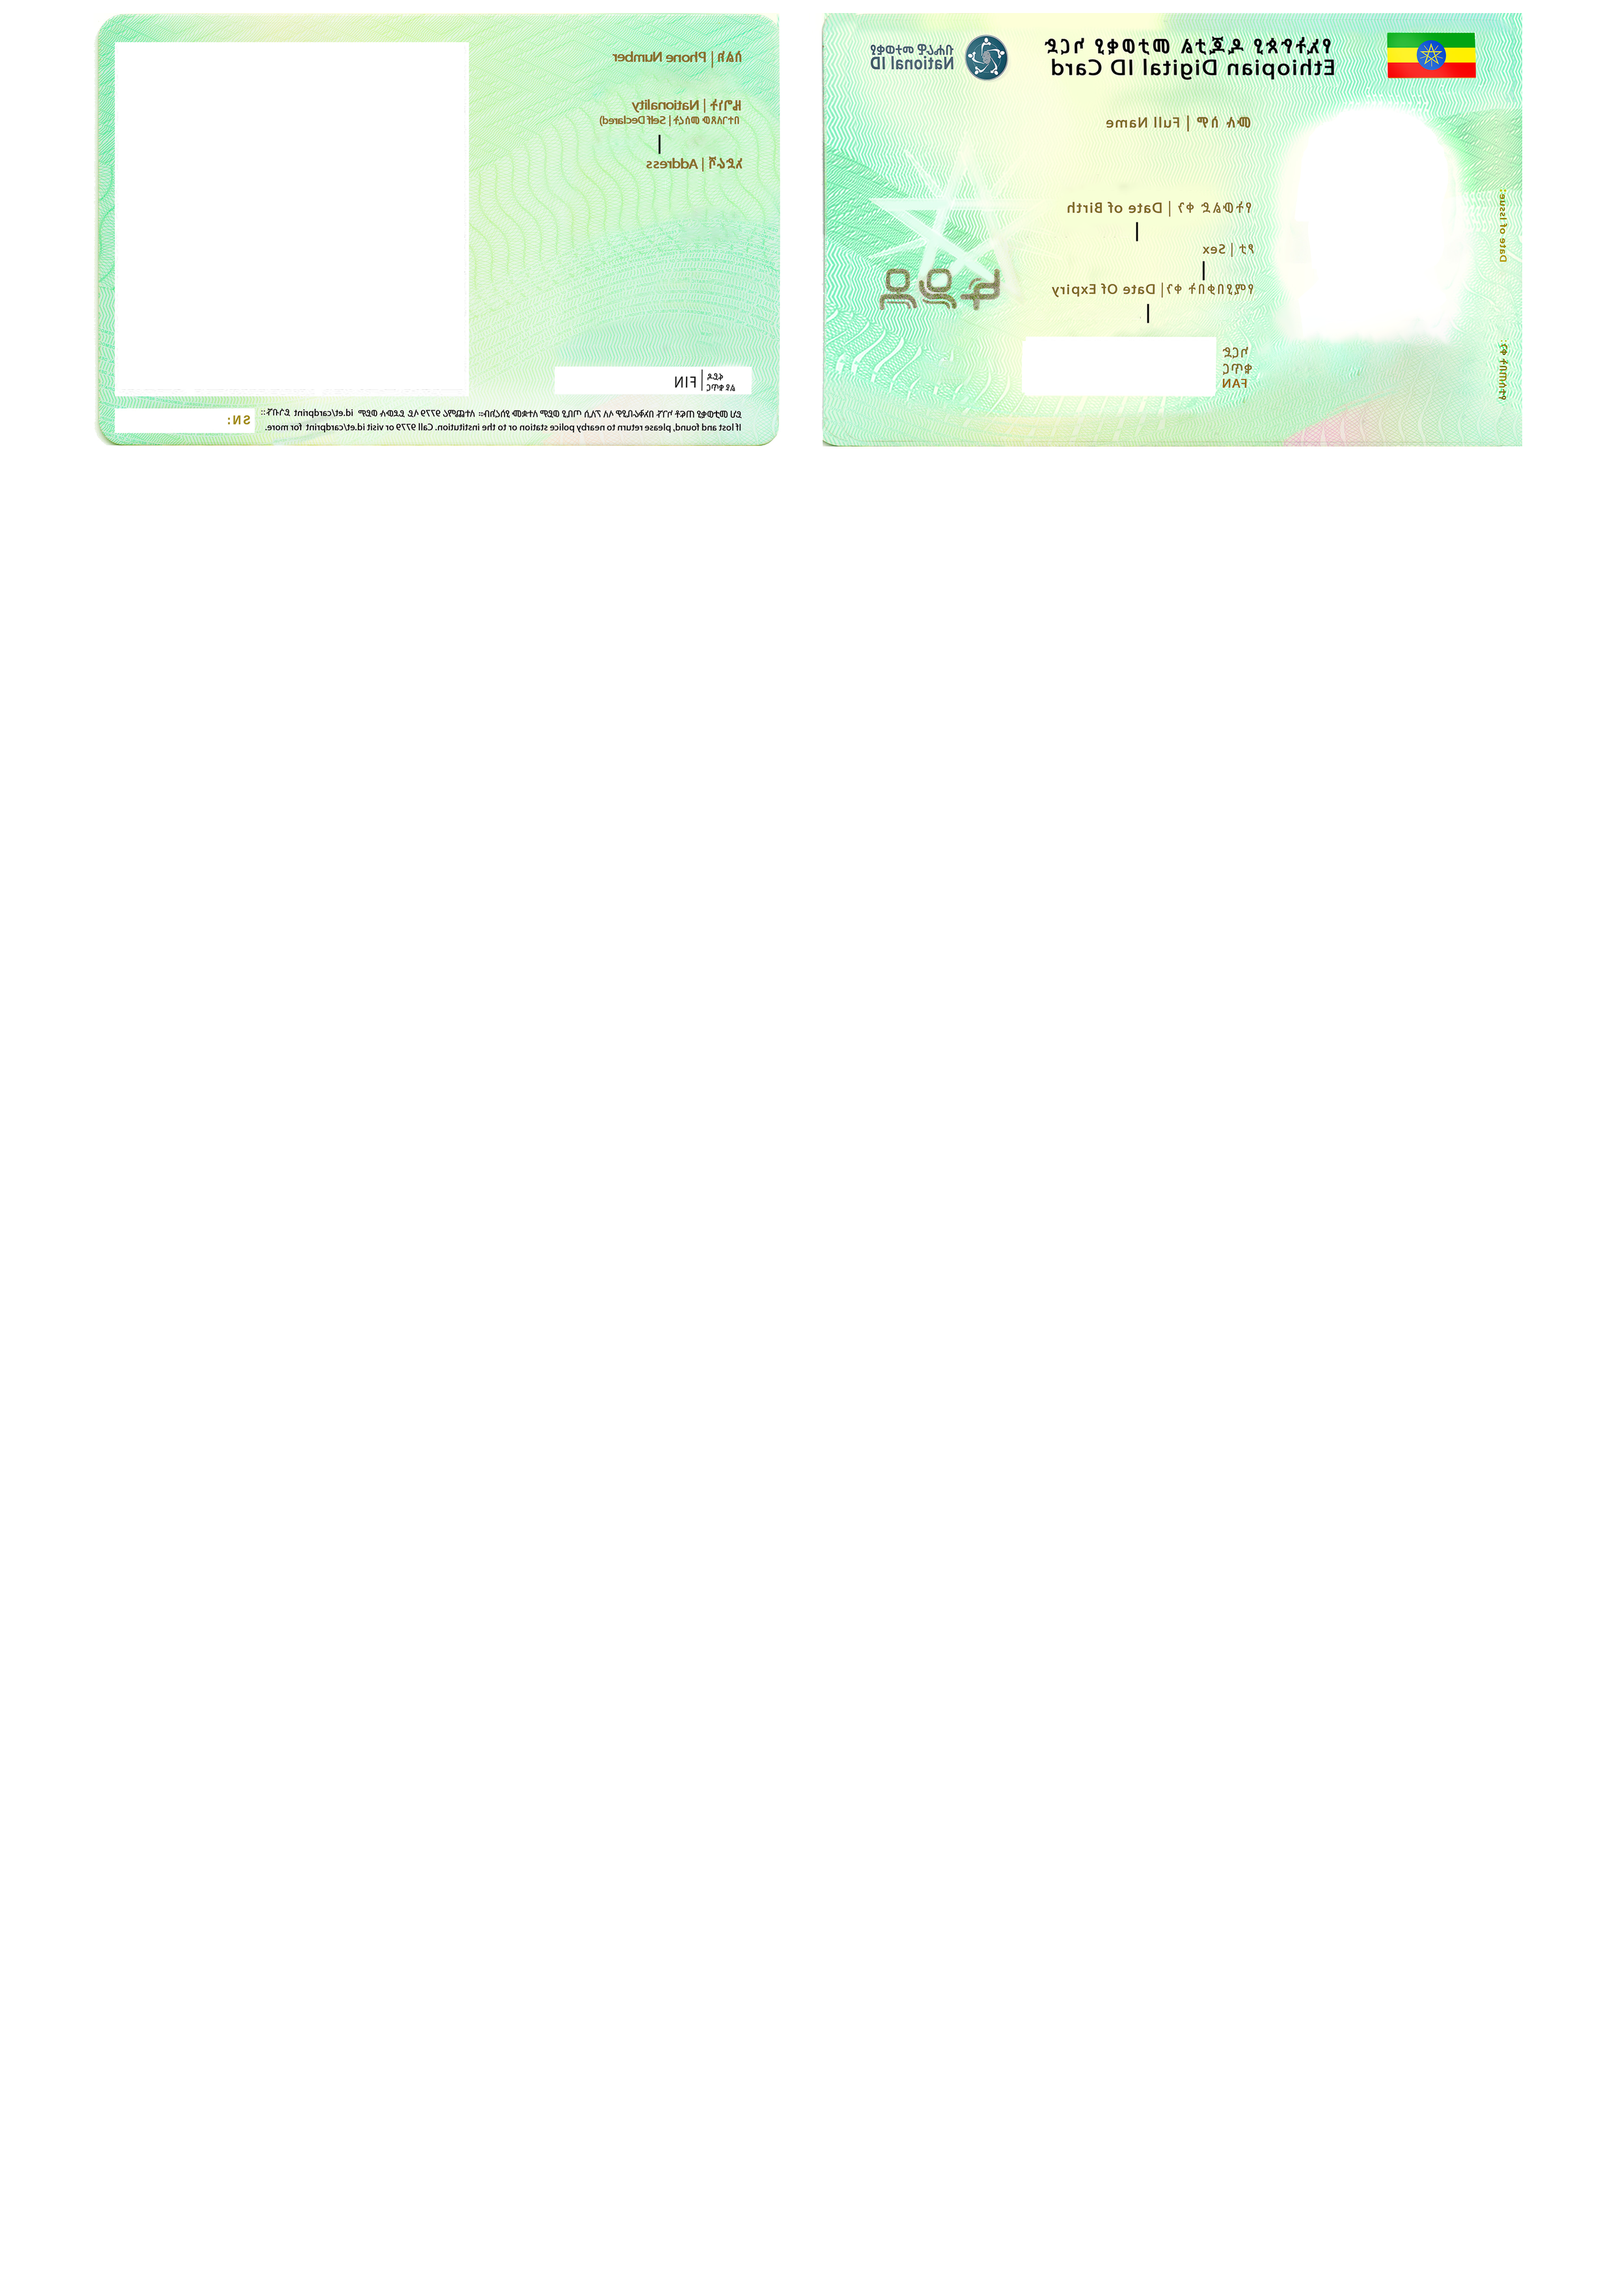
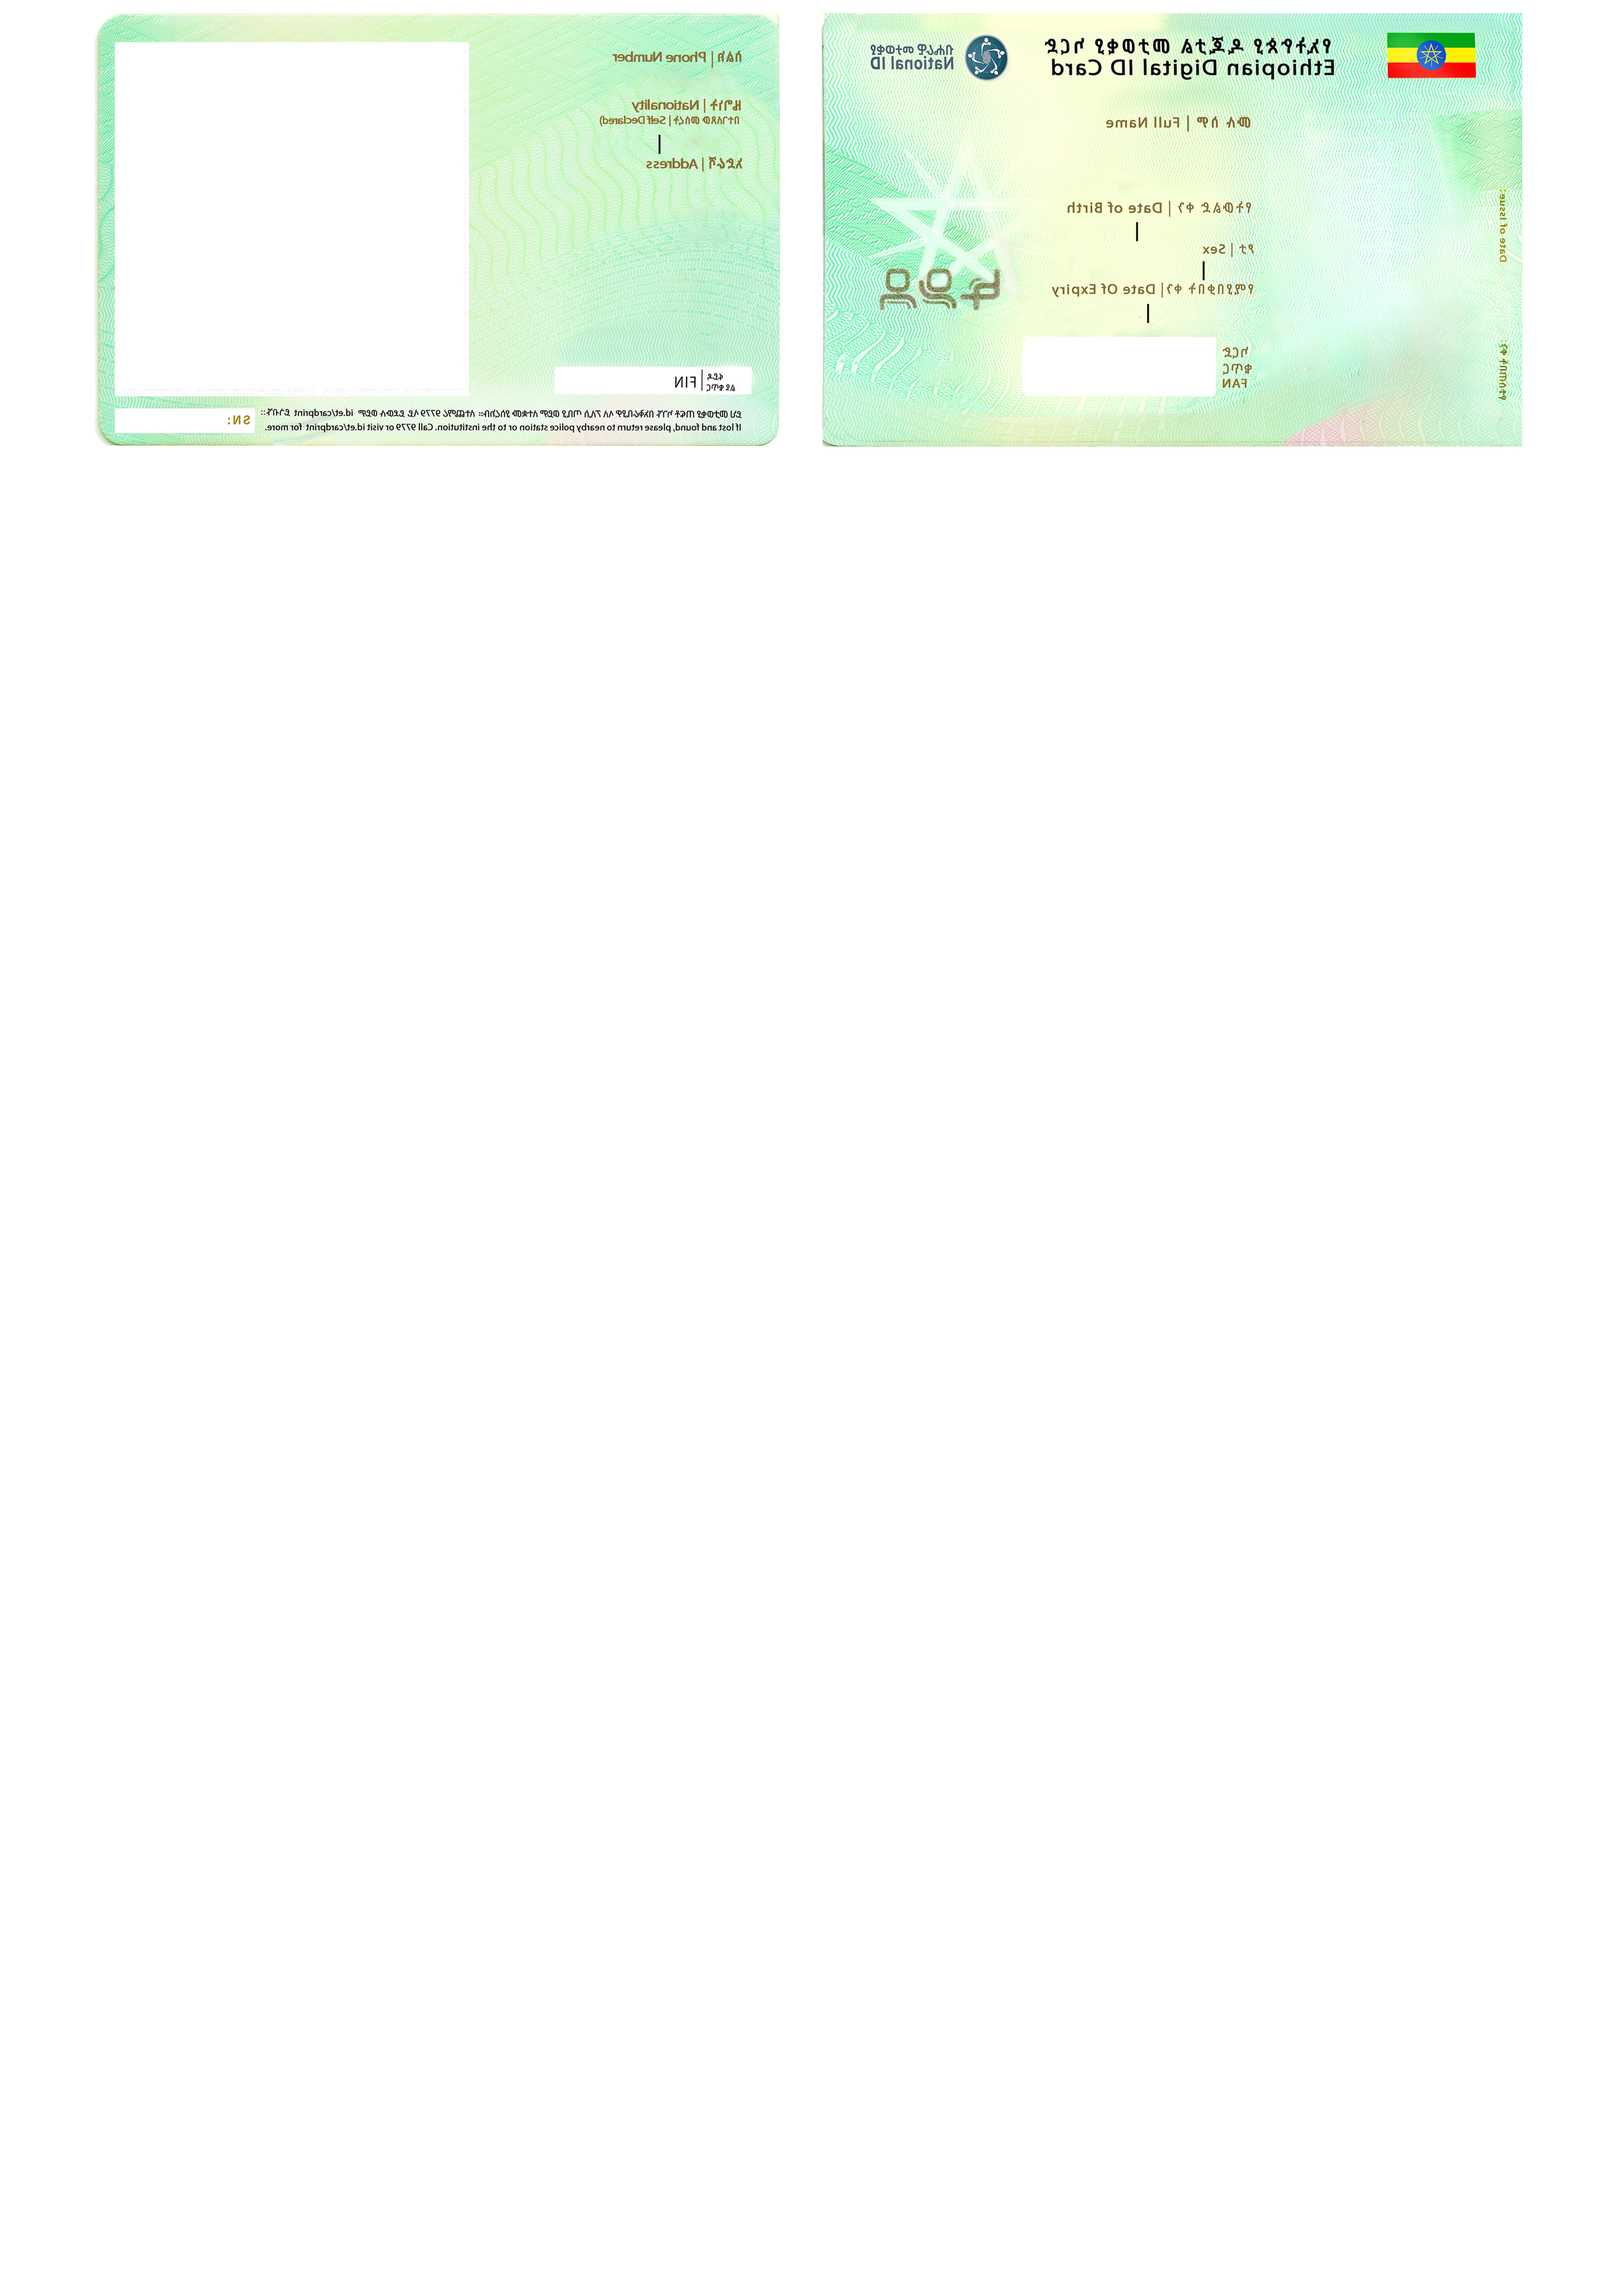
Add clipboard paste support on index and preview pages

Changed region(s): [[0.7762, 0.0311, 0.9315, 0.1554]]

diff --git a/app/templates/preview.html b/app/templates/preview.html
@@ -1153,11 +1153,16 @@
           {% endif %}
 
           {% if data.fcn_barcode %}
-          <div class="image-card">
+          <div class="image-card" id="barcodeCard">
+          {% else %}
+          <div class="image-card" id="barcodeCard" style="display:none;">
+          {% endif %}
             <h3>Barcode</h3>
             <div class="photo-preview-container" id="barcodeDropZone">
-              <img id="userBarcode" src="{{ url_for('static', filename=data.fcn_barcode) }}?t={{ timestamp }}"
-                class="uniform-img" alt="FCN Barcode">
+              <img id="userBarcode"
+                src="{% if data.fcn_barcode %}{{ url_for('static', filename=data.fcn_barcode) }}?t={{ timestamp }}{% else %}{% endif %}"
+                class="uniform-img" alt="FCN Barcode"
+                {% if not data.fcn_barcode %}style="display:none;"{% endif %}>
               <div id="barcodeLoading" class="photo-loading" style="display: none;">
                 <i class="fas fa-spinner fa-spin"></i>
               </div>
@@ -1178,7 +1183,6 @@
               <input type="file" id="barcodeUpload" accept="image/*">
             </div>
           </div>
-          {% endif %}
         </div>
 
         <div class="id-details">
@@ -2357,18 +2361,31 @@
         if (response.ok) {
           const result = await response.json();
           if (result.success) {
-            showToast('FAN number updated successfully', 'success');
-            
-            // If FAN is valid (16 digits), trigger barcode regeneration
-            if (cleanValue.length === 16) {
-              showToast('Regenerating barcode...', 'info');
-              // Reload the page to regenerate barcode
-              setTimeout(() => {
-                window.location.reload();
-              }, 1000);
+            // If barcode was regenerated, swap the image in-place — no page reload
+            if (cleanValue.length === 16 && result.barcode_filename) {
+              const barcodeImg = document.getElementById('userBarcode');
+              const barcodeCard = document.getElementById('barcodeCard');
+
+              if (barcodeCard) {
+                barcodeCard.style.display = '';
+              }
+              if (barcodeImg) {
+                const newSrc = `/static/${result.barcode_filename}?t=${Date.now()}`;
+                barcodeImg.onload = () => showToast('Barcode updated', 'success');
+                barcodeImg.onerror = () => showToast('Barcode file not found', 'error');
+                barcodeImg.style.display = '';
+                barcodeImg.src = newSrc;
+              }
+
+              // Also update the fcn_formatted input if present
+              if (result.fcn_formatted) {
+                const fcnInput = document.querySelector('input[name="fcn_formatted"]');
+                if (fcnInput) fcnInput.value = result.fcn_formatted;
+              }
+            } else {
+              showToast('FAN number updated', 'success');
             }
-            
-            // Update the session data to reflect changes
+
             if (window.sessionData) {
               window.sessionData.fan = cleanValue;
               window.sessionData.fcn_full = cleanValue;
@@ -2497,6 +2514,94 @@
         generationSummary.style.display = 'none';
       }
     }
+
+    // ── Clipboard paste support for Photo and QR ──────────────────────────
+    // Shows a brief highlight on the target zone when it's focused/hovered
+    function flashZone(zoneId) {
+      const zone = document.getElementById(zoneId);
+      if (!zone) return;
+      zone.style.outline = '3px solid var(--primary)';
+      zone.style.borderRadius = '8px';
+      setTimeout(() => { zone.style.outline = ''; }, 800);
+    }
+
+    document.addEventListener('paste', function (e) {
+      const items = (e.clipboardData || e.originalEvent.clipboardData).items;
+      let imageFile = null;
+
+      for (const item of items) {
+        if (item.type.startsWith('image/')) {
+          imageFile = item.getAsFile();
+          break;
+        }
+      }
+
+      if (!imageFile) return;
+
+      // Decide target: if QR drop zone is hovered/focused use QR, else photo
+      const qrZone = document.getElementById('qrDropZone');
+      const photoZone = document.getElementById('photoDropZone');
+
+      // Check which zone the mouse is currently over via a data attribute set on mouseover
+      const target = document.body.dataset.pasteTarget || 'photo';
+
+      if (target === 'qr' && qrZone) {
+        flashZone('qrDropZone');
+        handleQrUpload(imageFile);
+        showToast('QR pasted from clipboard', 'success');
+      } else if (photoZone) {
+        flashZone('photoDropZone');
+        handlePhotoUpload(imageFile);
+        showToast('Photo pasted from clipboard', 'success');
+      }
+    });
+
+    // Track which zone the cursor is over so paste knows where to go
+    ['photoDropZone', 'qrDropZone'].forEach(id => {
+      const el = document.getElementById(id);
+      if (!el) return;
+      el.addEventListener('mouseenter', () => {
+        document.body.dataset.pasteTarget = id === 'qrDropZone' ? 'qr' : 'photo';
+      });
+      el.addEventListener('mouseleave', () => {
+        delete document.body.dataset.pasteTarget;
+      });
+    });
+
+    // Also add a visible "Paste" button under each zone
+    (function addPasteButtons() {
+      const photoActions = document.querySelector('#photoDropZone')?.closest('.image-card')?.querySelector('.photo-actions');
+      const qrActions = document.querySelector('#qrDropZone')?.closest('.image-card')?.querySelector('.photo-actions');
+
+      function makePasteBtn(handler, label) {
+        const btn = document.createElement('button');
+        btn.type = 'button';
+        btn.className = 'photo-btn';
+        btn.innerHTML = `<i class="fas fa-clipboard"></i> ${label}`;
+        btn.title = 'Paste image from clipboard (Ctrl+V)';
+        btn.addEventListener('click', async () => {
+          try {
+            const items = await navigator.clipboard.read();
+            for (const item of items) {
+              const imgType = item.types.find(t => t.startsWith('image/'));
+              if (imgType) {
+                const blob = await item.getType(imgType);
+                handler(new File([blob], 'pasted.png', { type: imgType }));
+                return;
+              }
+            }
+            showToast('No image found in clipboard', 'error');
+          } catch {
+            showToast('Paste with Ctrl+V while hovering over the image', 'error');
+          }
+        });
+        return btn;
+      }
+
+      if (photoActions) photoActions.appendChild(makePasteBtn(handlePhotoUpload, 'Paste'));
+      if (qrActions)    qrActions.appendChild(makePasteBtn(handleQrUpload, 'Paste'));
+    })();
+    // ─────────────────────────────────────────────────────────────────────
   </script>
 </body>
 

diff --git a/app/templates/index.html b/app/templates/index.html
@@ -1209,6 +1209,94 @@
         counter.style.color = 'var(--text-light)';
       }
     });
+
+    // ── Clipboard paste support ───────────────────────────────────────────
+    const sectionToType = { photoQrSection: 'photoQr', frontSection: 'front', backSection: 'back' };
+
+    // Track which section the cursor is hovering over
+    Object.keys(sectionToType).forEach(id => {
+      const el = document.getElementById(id);
+      if (!el) return;
+      el.addEventListener('mouseenter', () => { document.body.dataset.pasteTarget = id; });
+      el.addEventListener('mouseleave', () => { delete document.body.dataset.pasteTarget; });
+    });
+
+    // Global Ctrl+V paste handler
+    document.addEventListener('paste', function(e) {
+      // Don't intercept paste inside text inputs
+      if (['INPUT', 'TEXTAREA'].includes(document.activeElement.tagName)) return;
+
+      const items = (e.clipboardData || e.originalEvent.clipboardData).items;
+      let file = null;
+      for (const item of items) {
+        if (item.type.startsWith('image/')) { file = item.getAsFile(); break; }
+      }
+      if (!file) return;
+
+      const targetId = document.body.dataset.pasteTarget;
+      const type = sectionToType[targetId] || 'photoQr';
+      const resolvedId = targetId || 'photoQrSection';
+
+      handleImageUpload({ target: { files: [file] } }, type);
+      showPasteToast(resolvedId);
+    });
+
+    function showPasteToast(sectionId) {
+      const labels = { photoQrSection: 'Photo + QR', frontSection: 'Front ID', backSection: 'Back ID' };
+      const label = labels[sectionId] || 'Photo + QR';
+      const toast = document.createElement('div');
+      toast.textContent = `📋 Pasted into ${label}`;
+      toast.style.cssText = `
+        position:fixed;bottom:24px;left:50%;transform:translateX(-50%);
+        background:#07813a;color:white;padding:0.6rem 1.4rem;
+        border-radius:8px;font-weight:600;font-size:0.95rem;
+        box-shadow:0 4px 12px rgba(0,0,0,0.2);z-index:9999;
+        transition:opacity 0.3s;
+      `;
+      document.body.appendChild(toast);
+      setTimeout(() => { toast.style.opacity = '0'; setTimeout(() => toast.remove(), 300); }, 2200);
+    }
+
+    // Add "Paste" button to each section
+    Object.entries(sectionToType).forEach(([sectionId, type]) => {
+      const section = document.getElementById(sectionId);
+      if (!section) return;
+
+      const btn = document.createElement('button');
+      btn.type = 'button';
+      btn.className = 'upload-btn';
+      btn.title = 'Paste image from clipboard (or Ctrl+V while hovering)';
+      btn.innerHTML = '<i class="fas fa-clipboard"></i> Paste';
+      btn.style.background = '#6c757d';
+
+      btn.addEventListener('click', async () => {
+        try {
+          const clipItems = await navigator.clipboard.read();
+          for (const item of clipItems) {
+            const imgType = item.types.find(t => t.startsWith('image/'));
+            if (imgType) {
+              const blob = await item.getType(imgType);
+              handleImageUpload({ target: { files: [new File([blob], 'pasted.png', { type: imgType })] } }, type);
+              showPasteToast(sectionId);
+              return;
+            }
+          }
+          alert('No image found in clipboard. Copy an image first, then click Paste.');
+        } catch {
+          alert('Hover over this section and press Ctrl+V to paste.');
+        }
+      });
+
+      // Insert the paste button next to the upload button
+      const wrapper = section.querySelector('.crop-btn-wrapper');
+      if (wrapper) {
+        wrapper.appendChild(btn);
+      } else {
+        const uploadBtn = section.querySelector('.upload-btn');
+        if (uploadBtn) uploadBtn.after(btn);
+      }
+    });
+    // ─────────────────────────────────────────────────────────────────────
   </script>
 </body>
 </html>

diff --git a/app/routes.py b/app/routes.py
@@ -1688,6 +1688,14 @@ def update_field():
         session['extracted'] = extracted
         print(f"DEBUG: Session saved successfully")
         
+        # Return barcode info if FAN was updated
+        if field_name == 'fan' and extracted.get('fcn_barcode'):
+            return jsonify({
+                'success': True,
+                'barcode_filename': extracted['fcn_barcode'],
+                'fcn_formatted': extracted.get('fcn_formatted', '')
+            })
+        
         return jsonify({'success': True})
     except Exception as e:
         print(f"DEBUG: Error in update_field: {str(e)}")
